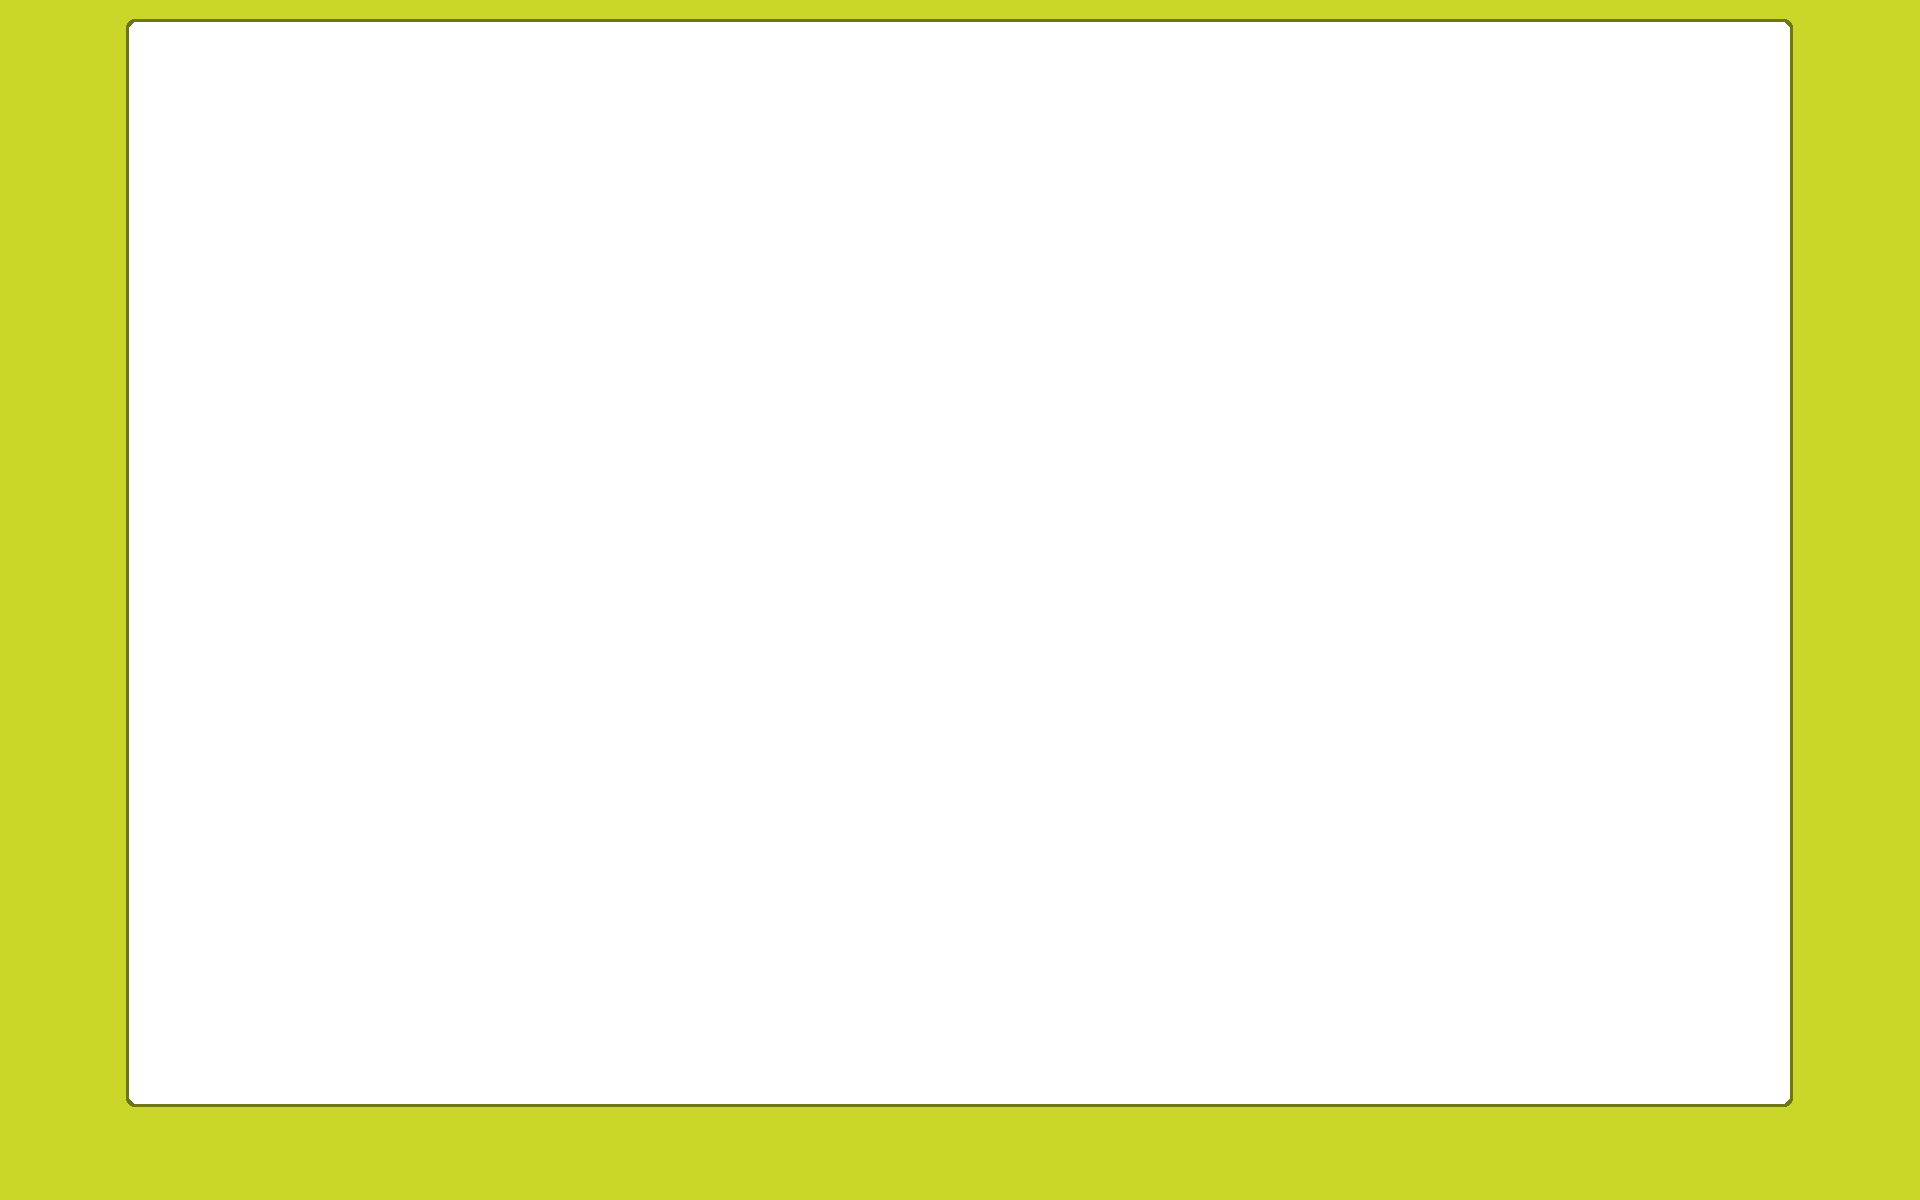
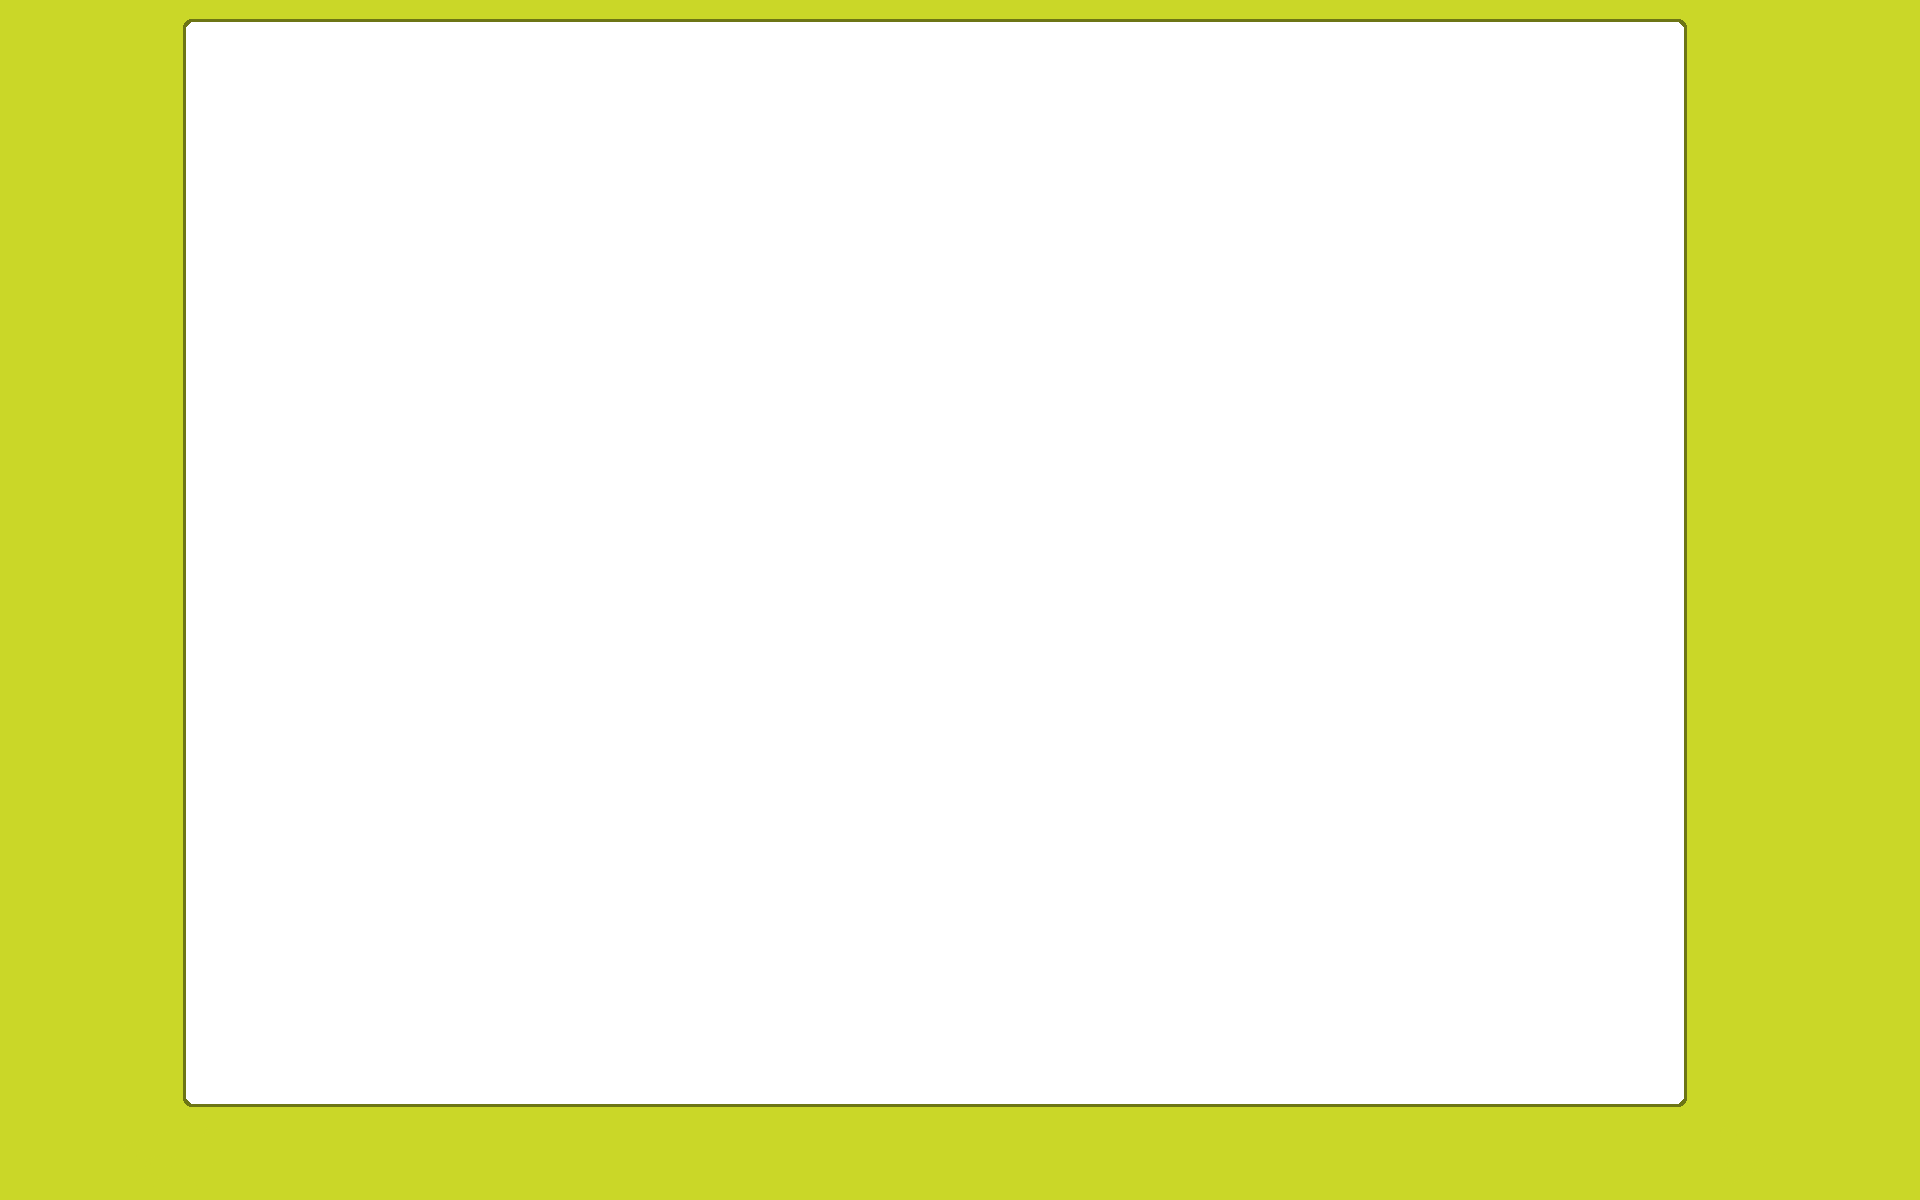
flexible window size, no more failing collisions

Changed region(s): [[0.875, 0.0, 0.9375, 0.925], [0.0625, 0.0, 0.125, 0.925]]

diff --git a/main.py b/main.py
@@ -30,6 +30,9 @@ from kivy.app import App
 from kivy.config import Config
 # for making screenshots with F12:
 Config.set('modules', 'keybinding', '')
+Config.set('graphics', 'width', '1920')
+Config.set('graphics', 'height', '1200')
+Config.set('graphics', 'fullscreen', '1')
 #Config.set('modules', 'inspector', '')
 from kivy.properties import ObjectProperty, StringProperty, NumericProperty
 from kivy.factory import Factory
@@ -68,11 +71,8 @@ from stockbar import Stockbar
 
 VERSION = '1.0'
 
-LEVEL_WIDTH = 17
+LEVEL_WIDTH = 16
 LEVEL_HEIGHT = 16
-
-LEVEL_OFFSET = [400, 50]
-BRICK_WIDTH = 65
 
 
 '''
@@ -170,9 +170,13 @@ class DeflectouchWidget(Widget):
         self.add_widget(self.bullet)
         self.bullet.fire()
     
+    
     def reset_button_pressed(self):
         # first kill the bullet
         if self.bullet != None:
+            self.bullet.unbind(pos=self.bullet.callback_pos)
+            self.bullet.animation.unbind(on_complete=self.bullet.on_collision_with_edge)
+            self.bullet.animation.stop(self.bullet)
             self.remove_widget(self.bullet)
             self.bullet = None
         
@@ -225,6 +229,7 @@ class DeflectouchWidget(Widget):
                       size_hint=(0.5, 0.5))
         popup.open()
     
+    
     def settings_button_pressed(self):
         pass #SOUND: CLICK LIKE IN GUNSHIP
         
@@ -233,8 +238,7 @@ class DeflectouchWidget(Widget):
             
             self.setting_popup = Popup(attach_to=self,
                                        title='DeflecTouch Settings',
-                                       size=(400, 400),
-                                       size_hint=(None, None))
+                                       size_hint=(0.3, 0.5))
             
             self.setting_dialog = SettingDialog(root=self)
             
@@ -245,6 +249,7 @@ class DeflectouchWidget(Widget):
             self.setting_dialog.speed_slider.value = boundary(self.app.config.getint('GamePlay', 'BulletSpeed'), 1, 10)
         
         self.setting_popup.open()
+        
         
     def display_help_screen(self):
         # display the help screen on a Popup
@@ -271,14 +276,13 @@ class DeflectouchWidget(Widget):
         
         # create an animation on the old bullets position:
         # bug: gif isn't transparent
-        '''
-        old_pos = self.bullet.center
-        self.bullet.anim_delay = 0.1
-        self.bullet.size = 96, 96
-        self.bullet.center = old_pos
-        self.bullet.source = 'graphics/explosion.gif'
-        Clock.schedule_once(self.bullet_exploded, 1)
-        '''
+        #old_pos = self.bullet.center
+        #self.bullet.anim_delay = 0.1
+        #self.bullet.size = 96, 96
+        #self.bullet.center = old_pos
+        #self.bullet.source = 'graphics/explosion.gif'
+        #Clock.schedule_once(self.bullet_exploded, 1)
+        
         self.remove_widget(self.bullet)
         self.bullet = None
         # or should i write del self.bullet instead?
@@ -286,6 +290,7 @@ class DeflectouchWidget(Widget):
         self.lives -= 1
         if self.lives == 0:
             self.reset_button_pressed()
+    
     
     def level_accomplished(self):
         pass #SOUND: ACCOMPLISHED (TOIOIOIOIO)
@@ -307,6 +312,7 @@ class DeflectouchWidget(Widget):
         animation.start(image)
         animation.bind(on_complete=self.accomplished_animation_complete)
     
+    
     def accomplished_animation_complete(self, animation, widget):
         self.remove_widget(widget)
         
@@ -315,10 +321,14 @@ class DeflectouchWidget(Widget):
         
         # no. just open the next level.
         if self.level != 40:
+            self.reset_button_pressed()
             self.load_level(self.level + 1)
         
     
     def load_level(self, level):
+        BRICK_WIDTH = self.height / 17.73
+        LEVEL_OFFSET = [self.center_x - (LEVEL_WIDTH/2) * BRICK_WIDTH, self.height / 12.5]
+        
         # i have to check if the function is called by a level button in the level popup OR with an int as argument:
         if not isinstance(level, int):
             level = int(level.text)
@@ -361,7 +371,7 @@ class DeflectouchWidget(Widget):
                     # create obstacle brick on white pixels
                     image = Image(source=('graphics/beta/brick%d.png' % randint(1, 4)),
                                   x = LEVEL_OFFSET[0] + x * BRICK_WIDTH,
-                                  y = LEVEL_OFFSET[1] + y * BRICK_WIDTH,
+                                  y = LEVEL_OFFSET[1] + (y-1) * BRICK_WIDTH,
                                   size = (BRICK_WIDTH, BRICK_WIDTH),
                                   allow_stretch = True)
                     self.obstacle_list.append(image)
@@ -372,7 +382,7 @@ class DeflectouchWidget(Widget):
                     # create a goal brick on blue pixels
                     image = Image(source=('graphics/beta/goal%d.png' % randint(1, 1)),
                                   x = LEVEL_OFFSET[0] + x * BRICK_WIDTH,
-                                  y = LEVEL_OFFSET[1] + y * BRICK_WIDTH,
+                                  y = LEVEL_OFFSET[1] + (y-1) * BRICK_WIDTH,
                                   size = (BRICK_WIDTH, BRICK_WIDTH),
                                   allow_stretch = True)
                     self.goal_list.append(image)
@@ -391,18 +401,20 @@ class DeflectouchWidget(Widget):
                 self.max_stock += 1
         
         # now i set up the stockbar widget:
-        self.max_stock = self.max_stock * 1527.0/LEVEL_WIDTH
+        self.max_stock = self.max_stock * self.width/1.4/LEVEL_WIDTH
         self.stockbar = Stockbar(max_stock=self.max_stock,
-                                 x=960-self.max_stock/2,
-                                 center_y=85)
+                                 x=self.center_x-self.max_stock/2,
+                                 center_y=self.height/15 + 20)
         self.add_widget(self.stockbar)
         
         # now start to build up the level:
         self.level_build_index = 0
-        Clock.schedule_interval(self.build_level, 0.002)
+        if len(self.obstacle_list) != 0:
+            Clock.schedule_interval(self.build_level, 0.5 / (len(self.obstacle_list) + len(self.goal_list)))
+        
         
     def build_level(self, instance):
-        if self.level_build_index % 5 == 0:
+        if self.level_build_index % int(0.02 / (0.5 / (len(self.obstacle_list) + len(self.goal_list)))) == 0:
             # play a sound every now and then:
             pass #SOUND: HIGH TEXT BLEEP
         
@@ -468,8 +480,8 @@ class Deflectouch(App):
    
     def build_config(self, config):
         config.adddefaultsection('General')
-        config.setdefault('General', 'Music', '50')
-        config.setdefault('General', 'Sound', '80')
+        config.setdefault('General', 'Music', '40')
+        config.setdefault('General', 'Sound', '100')
         config.setdefault('General', 'FirstStartup', 'Yes')
         
         config.adddefaultsection('GamePlay')

diff --git a/bullet.py b/bullet.py
@@ -29,7 +29,7 @@ kivy.require('1.0.9')
 from kivy.properties import NumericProperty, ObjectProperty
 from kivy.uix.image import Image
 from kivy.animation import Animation
-from kivy.graphics import Color, Line
+from kivy.graphics import Color, Point
 
 from kivy.utils import boundary
 from math import tan
@@ -41,9 +41,7 @@ from kivy.vector import Vector
 
 class Bullet(Image):
     angle = NumericProperty(0) # in radians!
-    animation = ObjectProperty(None)
-    
-    canvas_line = []
+    animation = None
     
     exploding = False
         
@@ -59,6 +57,7 @@ class Bullet(Image):
         super(Bullet, self).__init__(**kwargs)
         
     def fire(self):
+        print '################# FIRE ##################'
         destination = self.calc_destination(self.angle)
         speed = boundary(self.parent.app.config.getint('GamePlay', 'BulletSpeed'), 1, 10)
         self.animation = self.create_animation(speed, destination)
@@ -67,10 +66,6 @@ class Bullet(Image):
         self.animation.start(self)
         self.animation.bind(on_complete=self.on_collision_with_edge)
         
-        with self.canvas:
-            Color(0, 0, 1, 0.5)
-            self.canvas_line = Line(points=self.center)
-        
         # start to track the position changes
         self.bind(pos=self.callback_pos)
         
@@ -78,7 +73,10 @@ class Bullet(Image):
     def create_animation(self, speed, destination):
         # create the animation
         # t = s/v -> v from 1 to 10 / unit-less
-        time = Vector(self.center).distance(destination) / (speed * 70)
+        # NOTE: THE DIFFERENCE BETWEEN TWO RENDERED ANIMATION STEPS
+        # MUST *NOT* EXCESS THE RADIUS OF THE BULLET! OTHERWISE I
+        # HAVE PROBLEMS DETECTING A COLLISION WITH A DEFLECTOR!!
+        time = Vector(self.center).distance(destination) / (speed * 40)
         return Animation(pos=destination, duration=time)
         
     def calc_destination(self, angle):
@@ -150,12 +148,14 @@ class Bullet(Image):
         # first thing to do is: we need a vector describing the bullet. Length isn't important.
         bullet_position = Vector(self.center)
         bullet_direction = Vector(1, 0).rotate(self.angle * 360 / (2*pi))
+        deflector_point1 = Vector(deflector.to_parent(deflector.point1.center[0], deflector.point1.center[1]))
+        deflector_point2 = Vector(deflector.to_parent(deflector.point2.center[0], deflector.point2.center[1]))
         
         # then we need a vector describing the deflector line.
-        deflector_vector = Vector(deflector.touch2.pos) - Vector(deflector.touch1.pos)
+        deflector_vector = Vector(deflector_point2 - deflector_point1)
         
         # now we do a line intersection with the deflector line:
-        intersection = Vector.line_intersection(bullet_position, bullet_position + bullet_direction, Vector(deflector.touch1.pos), Vector(deflector.touch2.pos))
+        intersection = Vector.line_intersection(bullet_position, bullet_position + bullet_direction, deflector_point1, deflector_point2)
         
         # now we want to proof if the bullet comes from the 'right' side.
         # Because it's possible that the bullet is colliding with the deflectors bounding box but
@@ -170,16 +170,9 @@ class Bullet(Image):
         
         # now we finally check if the bullet is close enough to the deflector line:
         distance = abs(sin(radians(bullet_direction.angle(deflector_vector)) % (pi/2))) * Vector(intersection - bullet_position).length()
-        if distance < (self.width / 2) - 5:
+        print distance
+        if distance < (self.width / 2):
             # there is a collision!
-            '''
-            print 'bullet_position: ' , bullet_position
-            print 'bullet_direction: ' , bullet_direction
-            print 'deflector_vector: ' , deflector_vector
-            print 'intersection: ' , intersection
-            print 'distance: ' , distance 
-            self.animation.stop(self)
-            '''
             # kill the animation!
             self.animation.unbind(on_complete=self.on_collision_with_edge)
             self.animation.stop(self)
@@ -199,22 +192,21 @@ class Bullet(Image):
                 #print 'deflector on center=', deflector.center
                 if deflector.collide_widget(self):
                     self.check_deflector_collision(deflector)
+                    return
         
         # then check if there's a collision with the goal:
         if not len(self.parent.goal_list) == 0:
             for goal in self.parent.goal_list:
                 if self.collide_widget(goal):
                     self.on_collision_with_goal()
+                    return
         
         # then check if there's a collision with obstacles:
         if not len(self.parent.obstacle_list) == 0:
             for obstacle in self.parent.obstacle_list:
                 if self.collide_widget(obstacle):
                     self.on_collision_with_obstacle()
-        
-        
-        # draw a nice line after the bullet:
-        self.canvas_line.points += [self.center_x, self.center_y]
+                    return
     
     def bullet_explode(self):
         if self.exploding == True:
@@ -225,7 +217,6 @@ class Bullet(Image):
         self.animation.unbind(on_complete=self.on_collision_with_edge)
         self.animation.stop(self)
         
-        self.canvas.remove(self.canvas_line)
         self.parent.bullet_exploding()
         
     def on_collision_with_edge(self, animation, widget):
@@ -240,9 +231,11 @@ class Bullet(Image):
         pass #SOUND: DEFLECTOR
         
         # flash up the deflector
+        Animation.stop_all(deflector.point1, 'color')
+        Animation.stop_all(deflector.point2, 'color')
         deflector.point1.color = (1, 1, 1, 1)
         deflector.point2.color = (1, 1, 1, 1)
-        animation = Animation(color=(0, 0, 1, 1), duration=2, t='out_expo')
+        animation = Animation(color=(0, 0, 1, 1), duration=3, t='out_expo')
         animation.start(deflector.point1)
         animation.start(deflector.point2)
         
@@ -259,8 +252,12 @@ class Bullet(Image):
         self.animation.bind(on_complete=self.on_collision_with_edge)
     
     def on_collision_with_goal(self):
-        self.bullet_explode()
+        # i still have some strange exceptions because of multiple function calls:
+        if self.parent == None:
+            return
         self.parent.level_accomplished()
+        
+        self.bullet_explode()
         
         
         

diff --git a/tank.py b/tank.py
@@ -79,7 +79,7 @@ class Tank(Widget):
             # if the current touch is already in the 'rotate' mode, rotate the tower.
             dx = touch.x - self.center_x
             dy = touch.y - self.center_y
-            angle = boundary(atan2(dy, dx) * 360 / 2 / pi, -60, 60)
+            angle = boundary(atan2(dy, dx) * 360 / 2 / pi, -80, 80)
             
             angle_change = self.tank_tower_scatter.rotation - angle
             rotation_matrix = Matrix().rotate(-radians(angle_change), 0, 0, 1)
